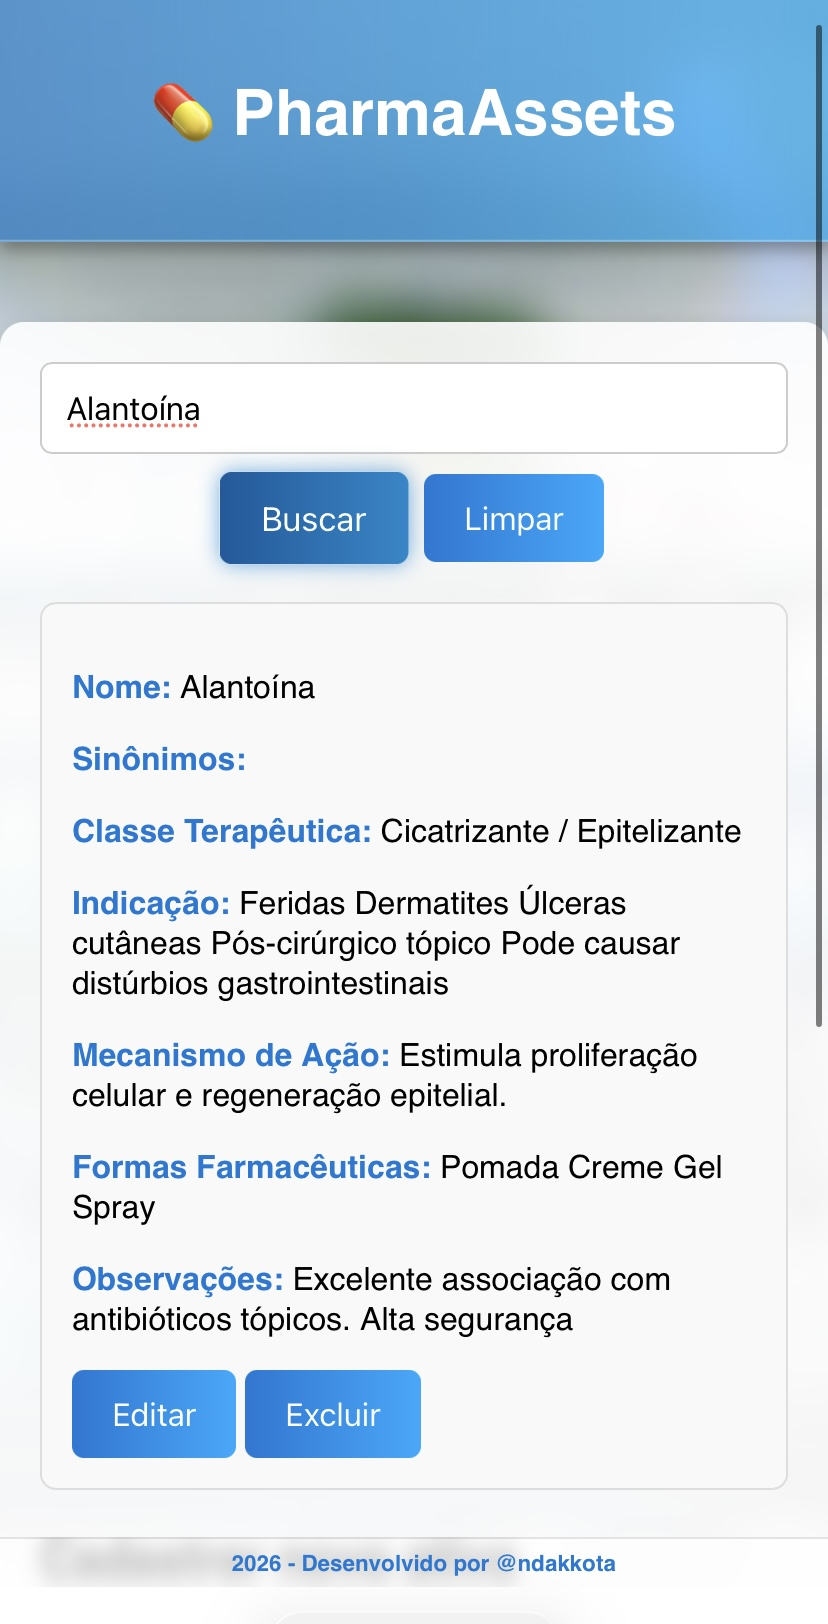
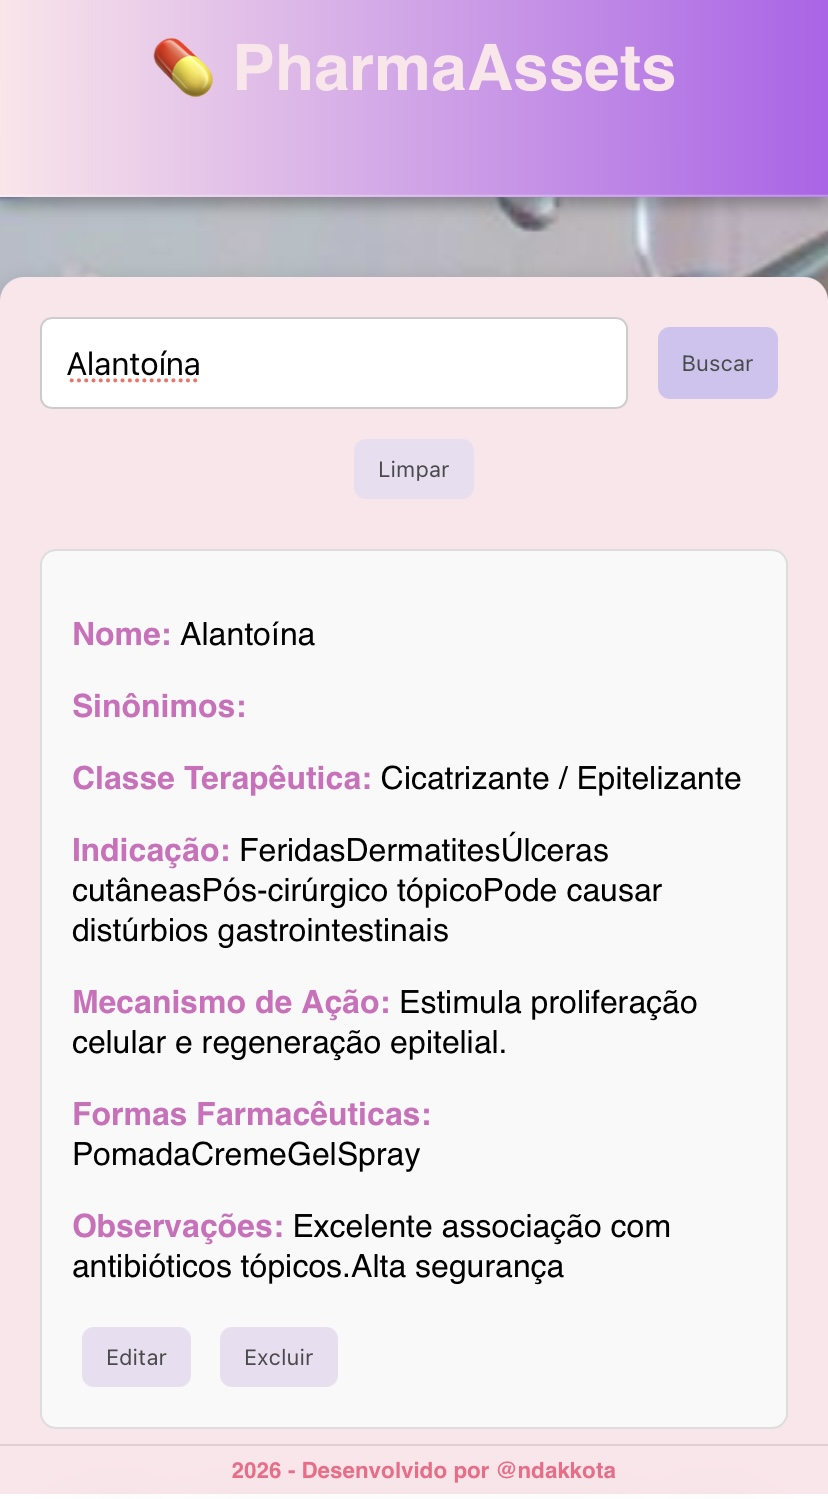
Add files via upload

diff --git a/index.html b/index.html
@@ -21,7 +21,7 @@
     }
 
     body {
-      font-family: 'Calibri', 'Gill Sans', 'Gill Sans MT', Calibri, 'Trebuchet MS', sans-serif;
+      font-family: 'Calibri', 'Gill Sans', 'Gill Sans MT', 'Trebuchet MS', sans-serif;
       background: linear-gradient(135deg, var(--primary), var(--secondary));
       color: var(--text);
       margin: 0;
@@ -186,7 +186,7 @@
       text-align:center;
       padding:5px;
       font-size:0.7em;
-      border-top:2px solid #391db9;
+      border-top:2px solid #795df8;
     }
 </style>
 </head>
@@ -231,7 +231,7 @@
       <div class="carousel">
         <img src="projeto1-foto1.PNG" class="active" alt="Projeto 1 Tela 1" onclick="openLightbox(this.src)">
         <img src="projeto1-foto2.PNG" alt="Tela para editar ativo">
-        <img src="projeto1-foto4.PNG" alt="Tela confirmação de edição de ativo">
+        <img src="projeto1-foto3.PNG" alt="Tela confirmação de edição de ativo">
         <button class="prev">&#10094;</button>
         <button class="next">&#10095;</button>
       </div>
